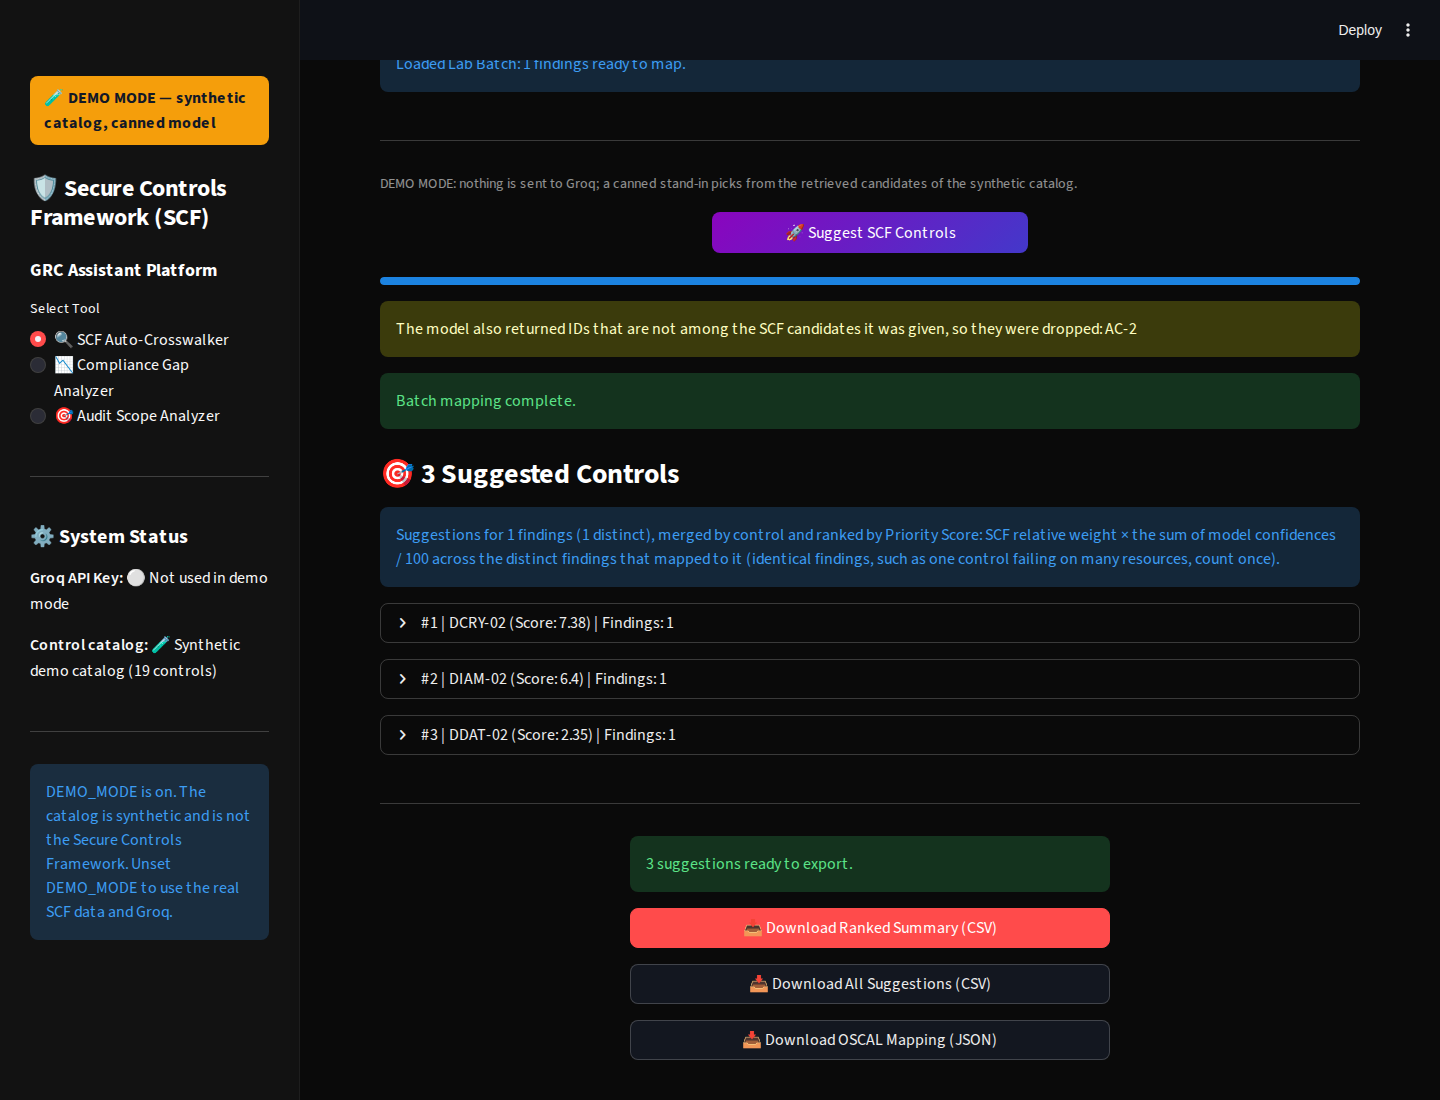
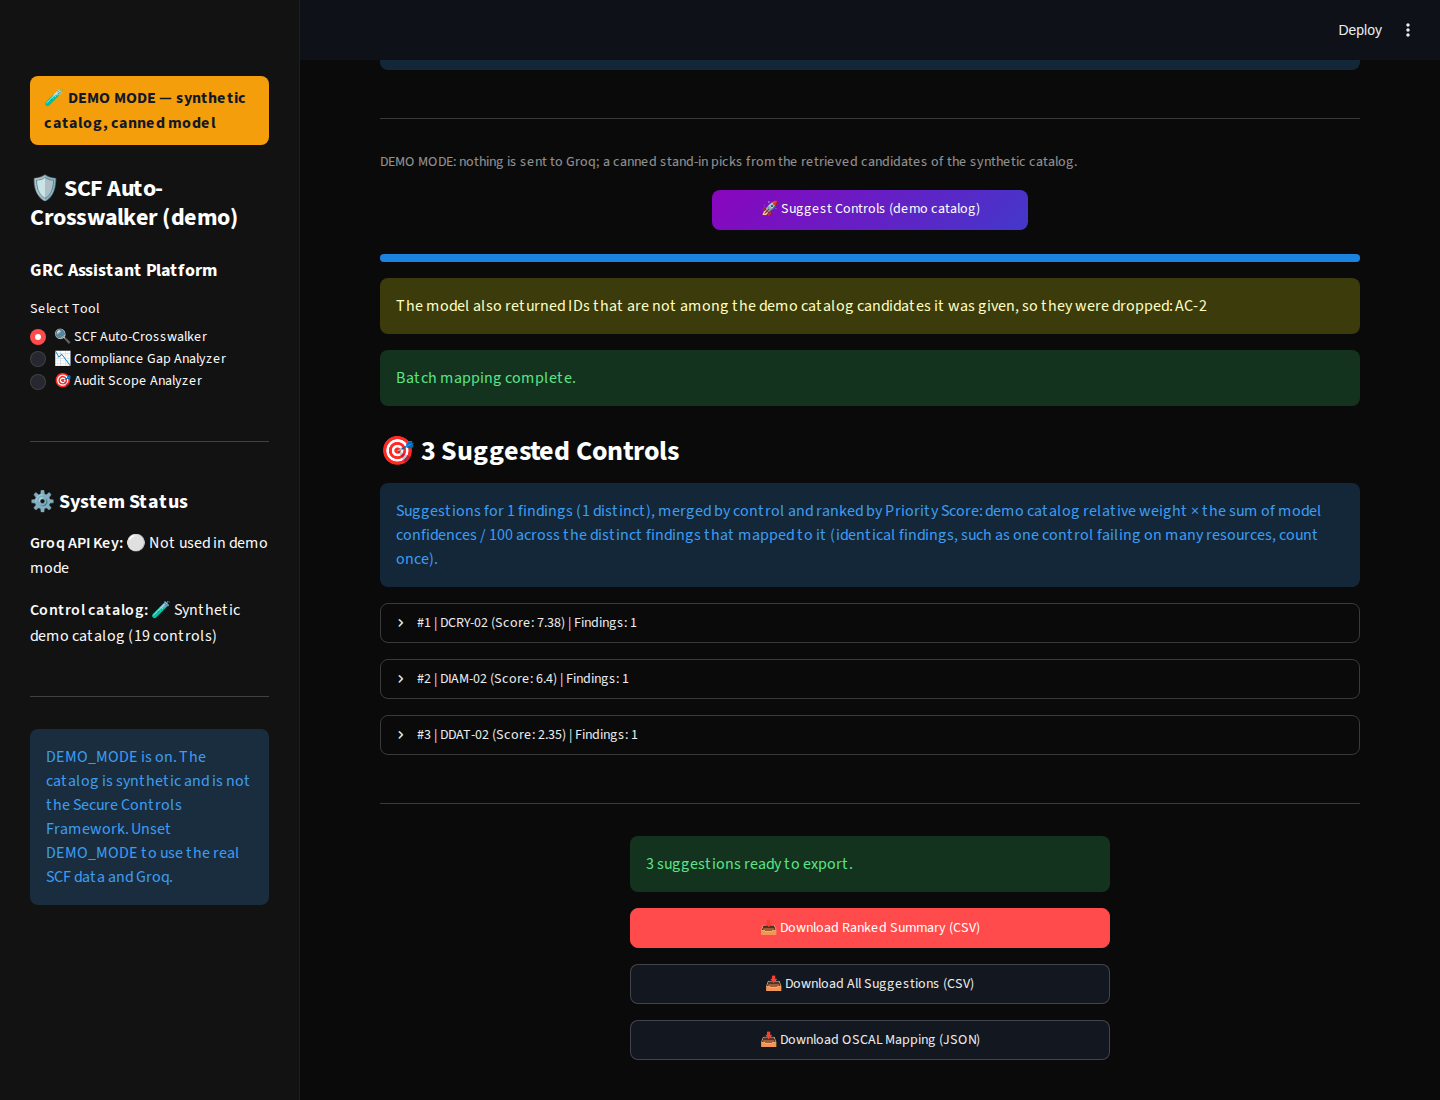
Address review: keep demo output out of real artifacts; label the demo catalog
- scripts/run_eval.py and scripts/generate_mock_output.py refuse to run
  in demo mode (they would have recorded canned output under the real
  SCF release and model name).
- Tests run in real mode unless they opt in: an autouse fixture blanks
  DEMO_MODE, so a developer's .env with DEMO_MODE=1 no longer breaks the
  suite.
- ID, domain and button labels name the demo catalog in demo mode
  (real-mode text is unchanged); screenshots recaptured.
- .streamlit/config.toml turns off Streamlit's usage statistics and the
  file watcher (it logged a traceback per transformers lazy module); the
  README's network claim is scoped accordingly.
- README: the canned model returns three candidates for the Crosswalker
  and six for a scope; docs/ is excluded from the Docker build context.

Claude-Session: https://claude.ai/code/session_017Tj9TcAN5Yup4o7k3YzYx1

diff --git a/app.py b/app.py
@@ -81,6 +81,10 @@ GROQ_NOTICE = (
 
 # Where control text and crosswalk references come from, as shown in labels.
 CATALOG_LABEL = "synthetic demo catalog" if DEMO_MODE else "SCF"
+# Short form for IDs, domains and buttons ("SCF controls mapped" / "demo catalog controls mapped").
+CATALOG_SHORT = "demo catalog" if DEMO_MODE else "SCF"
+EXAMPLE_ID = "DCRY-01" if DEMO_MODE else "CRY-01"
+DEMO_SUFFIX = " (demo catalog)" if DEMO_MODE else ""
 
 # Characters with meaning in Streamlit Markdown (links, images, emphasis,
 # HTML, colour directives). Model output is escaped before rendering, so a
@@ -185,7 +189,7 @@ def render_regulations(regulations: dict) -> None:
 def render_rejected(rejected: list[str], what: str = "IDs") -> None:
     if rejected:
         st.warning(
-            f"The model also returned {what} that are not among the SCF candidates it "
+            f"The model also returned {what} that are not among the {CATALOG_SHORT} candidates it "
             f"was given, so they were dropped: {', '.join(md_escape(r) for r in rejected)}"
         )
 
@@ -340,7 +344,9 @@ if app_mode == "🔍 SCF Auto-Crosswalker":
     st.caption(GROQ_NOTICE)
     col1, col2, col3 = st.columns([1, 1, 1])
     if col2.button(
-        "🚀 Suggest SCF Controls",
+        "🚀 Suggest Controls (demo catalog)"
+        if DEMO_MODE
+        else "🚀 Suggest SCF Controls",
         type="primary",
         width="stretch",
         key="cw_btn",
@@ -396,7 +402,7 @@ if app_mode == "🔍 SCF Auto-Crosswalker":
                 st.success("Suggestions ready. Review each one.")
                 st.markdown("### Suggested Controls")
             elif not r.error:
-                st.warning("The model returned no valid SCF controls.")
+                st.warning(f"The model returned no valid {CATALOG_SHORT} controls.")
             for m_idx, m in enumerate(r.mappings):
                 with st.expander(
                     f"Suggestion #{m_idx + 1} | {m.control_id} - Domain: {m.domain} | Model confidence: {m.confidence}%",
@@ -417,7 +423,7 @@ if app_mode == "🔍 SCF Auto-Crosswalker":
             st.markdown(f"### 🎯 {len(summary)} Suggested Controls")
             st.info(
                 f"Suggestions for {len(results)} findings ({unique_model_calls([r.input for r in results])} distinct), "
-                "merged by control and ranked by Priority Score: SCF relative weight × the sum of "
+                f"merged by control and ranked by Priority Score: {CATALOG_SHORT} relative weight × the sum of "
                 "model confidences / 100 across the distinct findings that mapped to it (identical "
                 "findings, such as one control failing on many resources, count once)."
             )
@@ -484,8 +490,9 @@ if app_mode == "🔍 SCF Auto-Crosswalker":
 elif app_mode == "📉 Compliance Gap Analyzer":
     st.title("📉 Compliance Gap Analyzer")
     st.markdown(
-        "List the SCF controls that SCF's own crosswalk maps to a framework, and check which "
-        "of them appear, by SCF control ID, in your existing control list. No LLM is used."
+        f"List the {CATALOG_SHORT} controls that the {CATALOG_LABEL}'s own crosswalk maps to a "
+        f"framework, and check which of them appear, by {CATALOG_SHORT} control ID, in your "
+        "existing control list. No LLM is used."
     )
 
     scf_db = load_scf_database()
@@ -510,7 +517,7 @@ elif app_mode == "📉 Compliance Gap Analyzer":
         selected_columns = []
         if matching_columns:
             selected_column = colF2.selectbox(
-                "SCF crosswalk column",
+                f"{CATALOG_SHORT} crosswalk column",
                 matching_columns,
                 help="SCF can have more than one column for a framework (for example, two editions). Pick the one you are assessing against.",
             )
@@ -525,7 +532,7 @@ elif app_mode == "📉 Compliance Gap Analyzer":
         with colA:
             st.markdown("### Upload Existing Controls")
             st.markdown(
-                "Upload a CSV of your current controls. The ID column must use **SCF control IDs** (e.g. `CRY-01`)."
+                f"Upload a CSV of your current controls. The ID column must use **{CATALOG_SHORT} control IDs** (e.g. `{EXAMPLE_ID}`)."
             )
             uploaded_csv = st.file_uploader("Upload CSV", type=["csv"], key="gap_up")
 
@@ -554,7 +561,7 @@ elif app_mode == "📉 Compliance Gap Analyzer":
                 columns = [str(c) for c in df_existing.columns]
                 df_existing.columns = columns
                 id_column = st.selectbox(
-                    "Column holding SCF control IDs",
+                    f"Column holding {CATALOG_SHORT} control IDs",
                     columns,
                     index=columns.index(detect_id_column(df_existing)),
                 )
@@ -627,13 +634,13 @@ elif app_mode == "📉 Compliance Gap Analyzer":
 
             if report.unknown_ids:
                 st.warning(
-                    f"{len(report.unknown_ids)} ID(s) in your list are not SCF control IDs "
+                    f"{len(report.unknown_ids)} ID(s) in your list are not {CATALOG_SHORT} control IDs "
                     f"and cannot match anything: {md_escape(', '.join(report.unknown_ids[:15]))}"
                     + (" ..." if len(report.unknown_ids) > 15 else "")
                 )
             if report.excluded_by_status:
                 st.info(
-                    f"{len(report.excluded_by_status)} SCF ID(s) in your list were not counted "
+                    f"{len(report.excluded_by_status)} {CATALOG_SHORT} ID(s) in your list were not counted "
                     f"because of their status: {md_escape(', '.join(report.excluded_by_status[:15]))}"
                 )
 
@@ -647,7 +654,7 @@ elif app_mode == "📉 Compliance Gap Analyzer":
 
                 st.markdown(f"### Gap profile: {md_escape(framework_label)}")
                 col_m1, col_m2, col_m3 = st.columns(3)
-                col_m1.metric("SCF controls mapped", len(report.rows))
+                col_m1.metric(f"{CATALOG_SHORT} controls mapped", len(report.rows))
                 col_m2.metric(
                     "✅ Listed in your controls",
                     report.covered,
@@ -655,7 +662,7 @@ elif app_mode == "📉 Compliance Gap Analyzer":
                 )
                 col_m3.metric("❌ Not listed", report.gaps)
                 st.caption(
-                    "“Listed” means the SCF control ID appears in your list (with an in-place status, "
+                    f"“Listed” means the {CATALOG_SHORT} control ID appears in your list (with an in-place status, "
                     "if a status column is used). It says nothing about whether the control is "
                     "designed or operating effectively."
                 )
@@ -805,7 +812,11 @@ elif app_mode == "🎯 Audit Scope Analyzer":
             col_d, col_c = st.columns([1, 1])
 
             with col_d:
-                st.markdown("### Suggested SCF Domains")
+                st.markdown(
+                    "### Suggested Domains" + DEMO_SUFFIX
+                    if DEMO_MODE
+                    else "### Suggested SCF Domains"
+                )
                 for domain in result.recommended_domains:
                     st.markdown(f"- **{md_escape(domain)}**")
 

diff --git a/scripts/run_eval.py b/scripts/run_eval.py
@@ -33,6 +33,7 @@ from evaluation import (  # noqa: E402
     score_retrieval,
     write_gold_csv,
 )
+from demo import demo_mode_enabled  # noqa: E402
 from fetch_scf import read_scf_release  # noqa: E402
 from mapper import (  # noqa: E402
     DEFAULT_GROQ_MODEL,
@@ -53,6 +54,14 @@ def main(argv: list[str] | None = None) -> int:
     parser.add_argument("--llm", action="store_true", help="also score the model step")
     parser.add_argument("--limit", type=int, help="score only the first N cases")
     args = parser.parse_args(argv)
+
+    if demo_mode_enabled():
+        # The demo catalog and canned model would produce meaningless numbers
+        # labeled with the real SCF release and model name.
+        print(
+            "DEMO_MODE is on; the evaluation needs the real SCF data. Unset DEMO_MODE."
+        )
+        return 1
 
     scf_data = load_scf_database()
     if not scf_data:

diff --git a/tests/test_evaluation.py b/tests/test_evaluation.py
@@ -174,3 +174,20 @@ def test_run_eval_cli_end_to_end(monkeypatch, tmp_path, fake_embeddings):
     assert "Hit rate @50 | 100.0%" in results  # 4 controls, all retrieved at k=50
 
     assert run_eval.main(["--controls", str(controls), "--column", "Typo"]) == 1
+
+
+def test_run_eval_refuses_demo_mode(monkeypatch, tmp_path):
+    import importlib.util
+    import os
+
+    spec = importlib.util.spec_from_file_location(
+        "run_eval_demo",
+        os.path.join(
+            os.path.dirname(os.path.dirname(__file__)), "scripts", "run_eval.py"
+        ),
+    )
+    run_eval = importlib.util.module_from_spec(spec)
+    spec.loader.exec_module(run_eval)
+    monkeypatch.setenv("DEMO_MODE", "1")
+    monkeypatch.delenv("ENVIRONMENT", raising=False)
+    assert run_eval.main(["--gold", str(tmp_path / "gold.csv")]) == 1

diff --git a/scripts/generate_mock_output.py b/scripts/generate_mock_output.py
@@ -14,6 +14,7 @@ import pandas as pd
 
 # Ensure src is in path since script is in scripts/
 sys.path.append(os.path.join(os.path.dirname(os.path.dirname(__file__)), "src"))
+from demo import demo_mode_enabled  # noqa: E402
 from findings import finding_to_text  # noqa: E402
 from mapper import analyze_audit_scope, map_text_to_scf  # noqa: E402
 
@@ -82,6 +83,10 @@ def run_scope_analysis():
 
 
 if __name__ == "__main__":
+    if demo_mode_enabled():
+        # Sample outputs document real runs; demo output must not land there.
+        print("[-] DEMO_MODE is on; sample outputs need the real SCF data and Groq.")
+        sys.exit(1)
     os.makedirs(OUT_DIR, exist_ok=True)
     if not os.environ.get("GROQ_API_KEY"):
         print("[-] GROQ_API_KEY is not set. The LLM calls would fail.")

diff --git a/tests/test_demo.py b/tests/test_demo.py
@@ -44,7 +44,7 @@ def demo_on(monkeypatch):
 
 @pytest.fixture
 def demo_off(monkeypatch):
-    monkeypatch.delenv("DEMO_MODE", raising=False)
+    monkeypatch.setenv("DEMO_MODE", "")  # empty, so load_dotenv() cannot restore it
 
 
 # --- Activation ---------------------------------------------------------------------
@@ -304,7 +304,7 @@ def test_app_gap_analyzer_in_demo(demo_on):
     at.button(key="gap_btn").click().run()
     assert not at.exception
     metrics = {m.label: m.value for m in at.metric}
-    assert int(metrics["SCF controls mapped"]) > 0
+    assert int(metrics["demo catalog controls mapped"]) > 0
     assert any("SEC\\-99" in w.value for w in at.warning)
 
 

diff --git a/tests/conftest.py b/tests/conftest.py
@@ -12,6 +12,18 @@ SRC = os.path.join(os.path.dirname(os.path.dirname(__file__)), "src")
 if SRC not in sys.path:
     sys.path.insert(0, SRC)
 
+
+@pytest.fixture(autouse=True)
+def _real_mode_by_default(monkeypatch):
+    """
+    Run every test in real (non-demo) mode unless it opts in.
+
+    An empty DEMO_MODE (rather than an unset one) also stops app.py's
+    load_dotenv() from re-reading DEMO_MODE=1 out of a developer's .env.
+    """
+    monkeypatch.setenv("DEMO_MODE", "")
+
+
 SCF_SAMPLE = [
     {
         "control_id": "CRY-01",

diff --git a/src/ui/components/sidebar.py b/src/ui/components/sidebar.py
@@ -25,7 +25,11 @@ def render_sidebar() -> str:
     with st.sidebar:
         if demo:
             render_demo_badge(detail=False)
-        st.title("🛡 Secure Controls Framework (SCF)")
+        st.title(
+            "🛡 SCF Auto-Crosswalker (demo)"
+            if demo
+            else "🛡 Secure Controls Framework (SCF)"
+        )
         st.markdown("### GRC Assistant Platform")
 
         app_mode = st.radio("Select Tool", TOOLS)

diff --git a/tests/test_app.py b/tests/test_app.py
@@ -208,7 +208,7 @@ def test_scope_results_hidden_when_scope_changes(fake_model):
 
 
 def test_gap_lab_picker_hides_demo_files_outside_demo_mode(scf_db, monkeypatch):
-    monkeypatch.delenv("DEMO_MODE", raising=False)
+    monkeypatch.setenv("DEMO_MODE", "")  # empty, so load_dotenv() cannot restore it
     at = _app("📉 Compliance Gap Analyzer")
     options = at.selectbox(key="gap_lab").options
     assert "sample_existing_controls.csv" in options

diff --git a/DECISIONS.md b/DECISIONS.md
@@ -12,7 +12,7 @@ This file records the design decisions as the code implements them today. Each r
 
 **Consequences.**
 - One mapping target instead of eight. A finding mapped to an SCF control inherits SCF's published references.
-- Those references are only as good as SCF's crosswalk. The UI labels them "from SCF's crosswalk".
+- Those references are only as good as SCF's crosswalk. The UI labels them "from the SCF crosswalk".
 - `parse_scf` keeps only the columns whose names contain one of the eight framework keywords (compared with spaces and line breaks removed, so "NIST SP 800-53 R5" and "NIST\n800-53\nrev5" both match), so any other framework in the workbook is dropped.
 
 ---
@@ -158,7 +158,7 @@ This file records the design decisions as the code implements them today. Each r
 - `_get_embedding_model()` returns a hashed bag-of-words encoder (CRC32 buckets of crudely stemmed words). The demo catalog is embedded directly, so the on-disk embedding cache of the real SCF is never touched.
 - `_get_llm()` returns a canned model with ChatGroq's `with_structured_output(schema)` interface, built on a LangChain `RunnableLambda`. It reads the candidate list from the rendered prompt and returns the top three candidates, in retrieval order, with fixed confidences (82, 64, 47) and justifications that say they are demo output. For a scope, it returns the top six and their domains. It also returns `AC-2`, a NIST SP 800-53 ID, on every call, deliberately, so the demo shows validation rejecting an ID that was not among the candidates.
 
-Everything else is the production code on demo data: the prompts, candidate retrieval and ranking, validation, enrichment, batch deduplication and Priority Score ranking, the gap analysis, and the exports. Demo mode never activates silently: every page and the sidebar carry a "DEMO MODE — synthetic catalog, canned model" badge, the sidebar hides the SCF download button, labels name the synthetic catalog, and exports are stamped (a "Demo Notice" column on every CSV row; `[DEMO DATA]` in the OSCAL title, and a notice in the metadata remarks, the mapping description and the target resource). It is off by default and refused when `ENVIRONMENT` is `production` or `staging`.
+Everything else is the production code on demo data: the prompts, candidate retrieval and ranking, validation, enrichment, batch deduplication and Priority Score ranking, the gap analysis, and the exports. Demo mode never activates silently: every page and the sidebar carry a "DEMO MODE — synthetic catalog, canned model" badge, the sidebar hides the SCF download button, labels name the synthetic catalog, and exports are stamped (a "Demo Notice" column on every CSV row; `[DEMO DATA]` in the OSCAL title, and a notice in the metadata remarks, the mapping description and the target resource). It is off by default and refused when `ENVIRONMENT` is `production` or `staging`. `scripts/run_eval.py` and `scripts/generate_mock_output.py` refuse to run in demo mode, so demo output can never be recorded as an evaluation result or a sample of real output.
 
 **Consequences.**
 - Anyone can run all three tools in two minutes with no keys, and the screenshots in the README come from a reproducible demo run (`scripts/capture_screenshots.mjs`).

diff --git a/README.md b/README.md
@@ -15,7 +15,7 @@ Design notes: [CASE_STUDY.md](CASE_STUDY.md) (the problem, from the auditor's si
 
 ## Try it in 2 minutes (no API keys)
 
-`DEMO_MODE=1` runs all three tools with no Groq key and no network calls at runtime. Two things are swapped out: the SCF data is replaced by a small synthetic catalog (19 made-up controls with IDs such as `DCRY-01`), and the language model is replaced by a canned stand-in that picks the top retrieved candidates. Everything else runs for real on that data: retrieval ranking, validation, enrichment from the catalog, batch deduplication and ranking, the gap analysis, and the CSV and OSCAL exports. Every page shows a **DEMO MODE** badge, and every export is stamped as demo data.
+`DEMO_MODE=1` runs all three tools with no Groq key and without calling Groq, Hugging Face or the SCF download (Streamlit's own usage statistics are also turned off, in `.streamlit/config.toml`). Two things are swapped out: the SCF data is replaced by a small synthetic catalog (19 made-up controls with IDs such as `DCRY-01`), and the language model is replaced by a canned stand-in that picks the top retrieved candidates. Everything else runs for real on that data: retrieval ranking, validation, enrichment from the catalog, batch deduplication and ranking, the gap analysis, and the CSV and OSCAL exports. Every page shows a **DEMO MODE** badge, and every export is stamped as demo data.
 
 **With Docker Compose** (serves on http://127.0.0.1:8501)
 
@@ -36,7 +36,7 @@ DEMO_MODE=1 uv run streamlit run app.py
 
 Then pick a tool and a **Lab Data** sample: `sample_endpoint_policy.txt` or `aws_securityhub_finding.json` in the Crosswalker, `demo_existing_controls.csv` in the Gap Analyzer, `sample_audit_scope.txt` in the Scope Analyzer.
 
-What the demo does **not** show: how good the real suggestions are. The catalog is not the SCF, the embedder is a hashed bag of words rather than `all-MiniLM-L6-v2`, and the canned model makes no judgment. It always returns the top three candidates with fixed confidences (82, 64, 47), plus `AC-2`, a NIST SP 800-53 ID, on purpose, so you can see validation reject an ID that was not among the candidates. See [ADR-010](DECISIONS.md#adr-010-a-demo-mode-with-a-synthetic-catalog-and-a-canned-model). Demo mode is refused when `ENVIRONMENT` is `production` or `staging`.
+What the demo does **not** show: how good the real suggestions are. The catalog is not the SCF, the embedder is a hashed bag of words rather than `all-MiniLM-L6-v2`, and the canned model makes no judgment. For the Crosswalker it always returns the top three candidates with fixed confidences (82, 64, 47), and for a scope the top six; both also return `AC-2`, a NIST SP 800-53 ID, on purpose, so you can see validation reject an ID that was not among the candidates. See [ADR-010](DECISIONS.md#adr-010-a-demo-mode-with-a-synthetic-catalog-and-a-canned-model). Demo mode is refused when `ENVIRONMENT` is `production` or `staging`.
 
 ---
 
